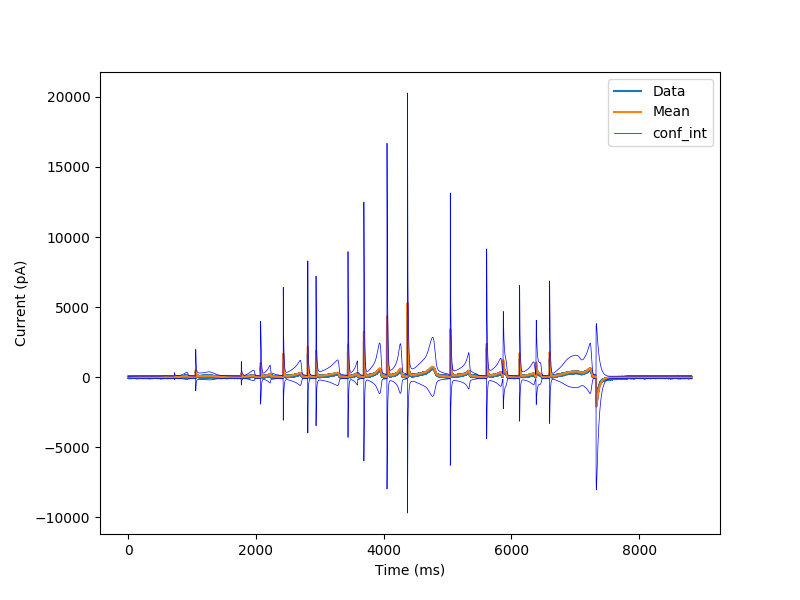
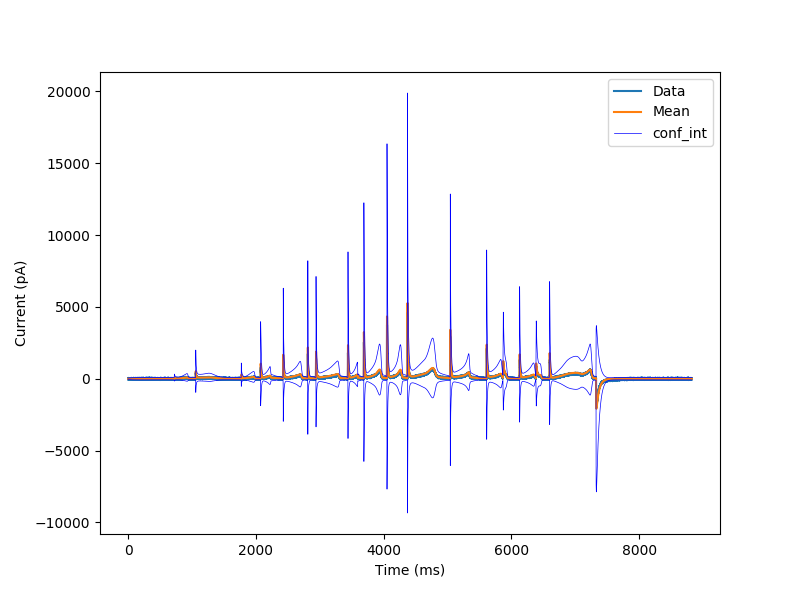
Plot 95% interval

diff --git a/ion-channel-models/mcmc-arma.py b/ion-channel-models/mcmc-arma.py
@@ -11,9 +11,9 @@ import pints
 import pints.io
 import pints.plot
 import statsmodels.api as sm
-from statsmodels.tsa.arima_process import arma2ma
-#from sklearn.externals import joblib
+#from statsmodels.tsa.arima_process import arma2ma
 import joblib
+from scipy.stats import norm as scipy_stats_norm
 
 import model as m
 import parametertransform
@@ -245,9 +245,10 @@ ppc_sd = np.sqrt(var1 + var2 + var3)
 plt.figure(figsize=(8, 6))
 plt.plot(times, data, label='Model C')
 plt.plot(times, ppc_mean, label='Mean')
-plt.plot(times, ppc_mean + 2 * ppc_sd, '-', color='blue', lw=0.5,
-        label='conf_int')
-plt.plot(times, ppc_mean - 2 * ppc_sd, '-', color='blue', lw=0.5)
+n_sd = scipy_stats_norm.ppf(1. - .05 / 2.)
+plt.plot(times, ppc_mean + n_sd * ppc_sd, '-', color='blue', lw=0.5,
+        label='95% C.I.')
+plt.plot(times, ppc_mean - n_sd * ppc_sd, '-', color='blue', lw=0.5)
 plt.legend()
 plt.xlabel('Time (ms)')
 plt.ylabel('Current (pA)')

diff --git a/ion-channel-models/posterior-arma.py b/ion-channel-models/posterior-arma.py
@@ -12,6 +12,7 @@ import pints.io
 import pints.plot
 import statsmodels.api as sm
 import joblib
+from scipy.stats import norm as scipy_stats_norm
 
 import model as m
 
@@ -153,9 +154,10 @@ ppc_sd = np.sqrt(var1 + var2 + var3)
 plt.figure(figsize=(8, 6))
 plt.plot(times, data, label='Data')
 plt.plot(times, ppc_mean, label='Mean')
-plt.plot(times, ppc_mean + 2 * ppc_sd, '-', color='blue', lw=0.5,
-        label='conf_int')
-plt.plot(times, ppc_mean - 2 * ppc_sd, '-', color='blue', lw=0.5)
+n_sd = scipy_stats_norm.ppf(1. - .05 / 2.)
+plt.plot(times, ppc_mean + n_sd * ppc_sd, '-', color='blue', lw=0.5,
+        label='95% C.I.')
+plt.plot(times, ppc_mean - n_sd * ppc_sd, '-', color='blue', lw=0.5)
 plt.legend()
 plt.xlabel('Time (ms)')
 plt.ylabel('Current (pA)')
